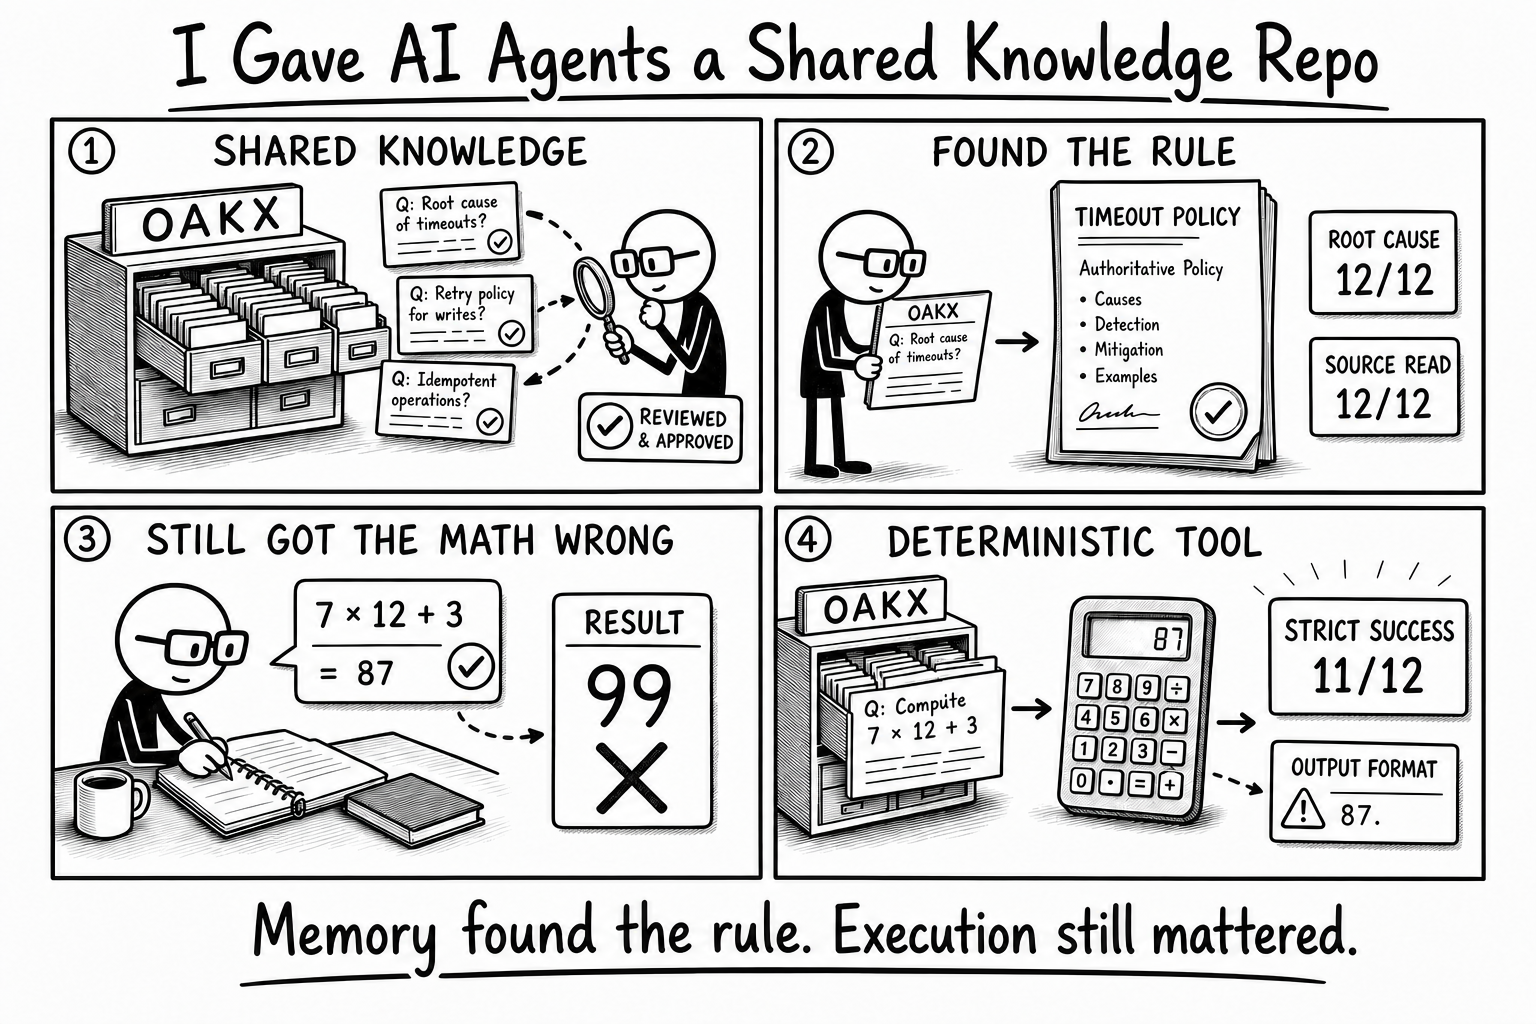
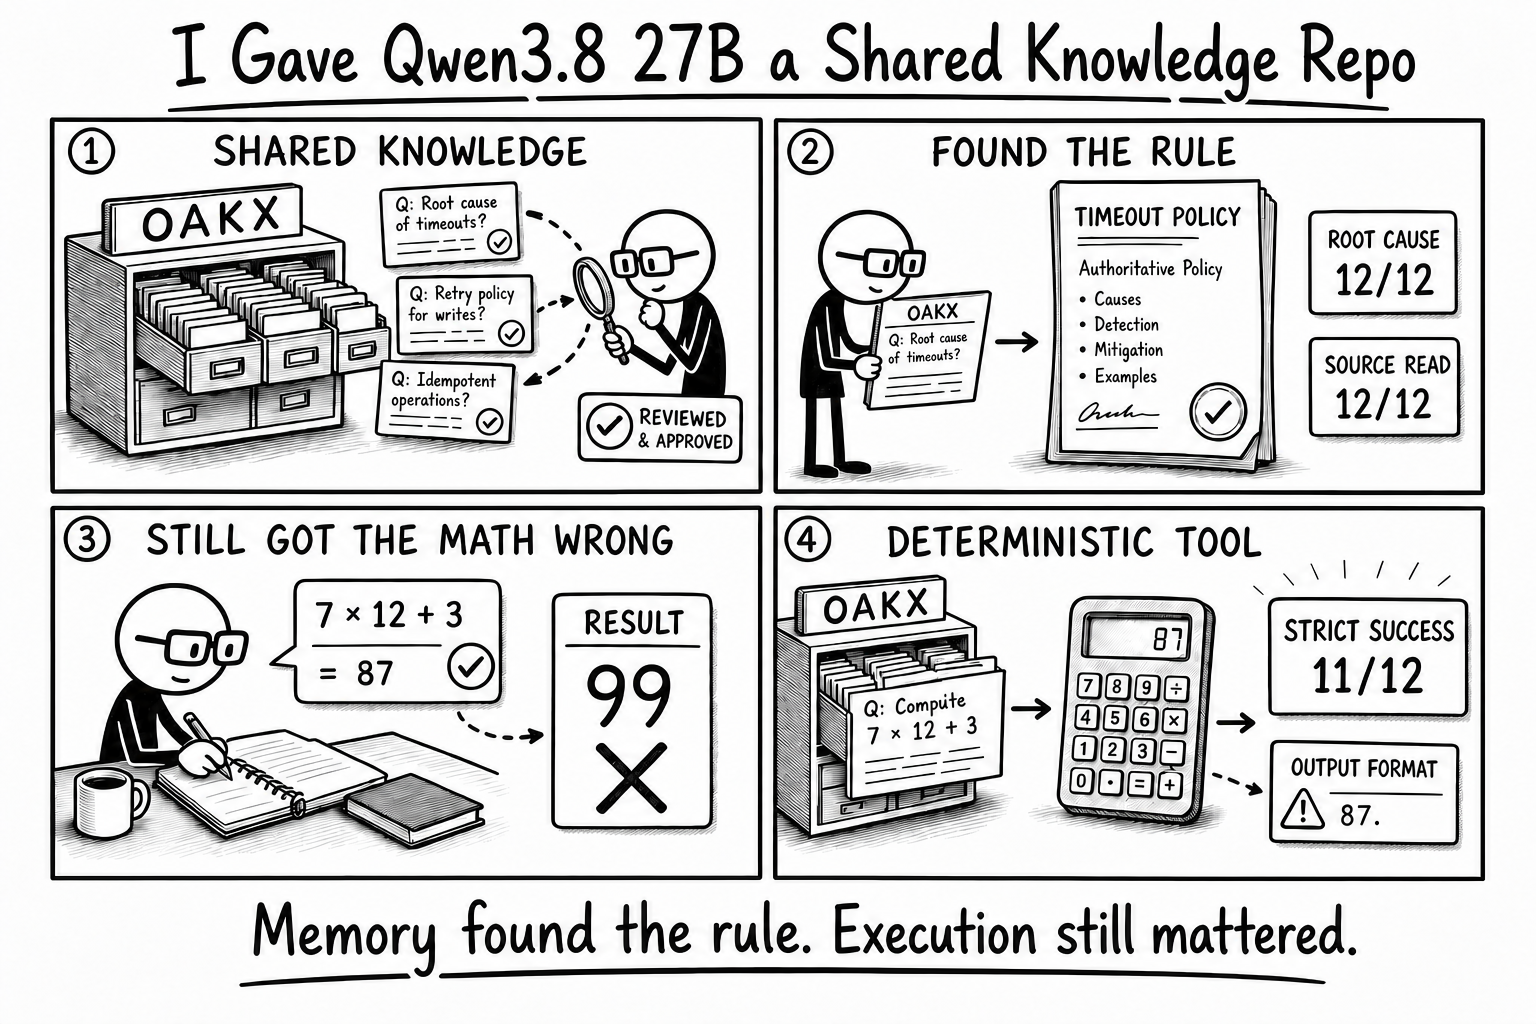
Name Qwen3.8 27B in OAKX post

diff --git a/_drafts/oakx-memory-to-action.md b/_drafts/oakx-memory-to-action.md
@@ -1,6 +1,6 @@
 ---
-title: "I Gave AI Agents a Shared Knowledge Repo. They Found the Rule—and Still Got the Math Wrong."
-description: "A local OAKX experiment on 12 synthetic repository incidents improved bounded task success from 0/12 to 6/12; adding an answer-blind calculator reached 11/12."
+title: "I Gave Qwen3.8 27B a Shared Knowledge Repo. It Found the Rule—and Still Got the Math Wrong."
+description: "A local Qwen3.8 27B OAKX experiment on 12 synthetic repository incidents improved bounded task success from 0/12 to 6/12; adding an answer-blind calculator reached 11/12."
 date: 2026-08-30
 tags:
   - ai
@@ -25,7 +25,7 @@ Knowledge Exchange**, or **OAKX**.
 
 The short answer is **yes—with an important qualification**.
 
-On twelve held-out synthetic repository incidents, the same local model went from **0/12 strict
+On twelve held-out synthetic repository incidents, Qwen3.8 27B went from **0/12 strict
 successes without OAKX to 6/12 with it**. The OAKX-enabled agent found the correct root cause and
 authoritative source in all twelve tasks. But in half of them, it still applied the right rule
 incorrectly.
@@ -41,9 +41,9 @@ right rule. It does not guarantee that the model will execute that rule correctl
 
 ### TL;DR (Layman Version)
 
-I gave a local AI agent access to a small library of previously reviewed solutions. That library
-helped it identify the right problem and find the file that proved the answer, but the model still
-made arithmetic mistakes while applying the correct instructions. A basic calculator fixed almost
+I gave a local Qwen3.8 27B model access to a small library of previously reviewed solutions. That
+library helped it identify the right problem and find the file that proved the answer, but the model
+still made arithmetic mistakes while applying the correct instructions. A basic calculator fixed almost
 all of those remaining failures. The result was not simply 11/12: **“agent memory” is not one
 capability. Retrieval, evidence checking, deterministic execution, and answer normalization can
 fail independently.**
